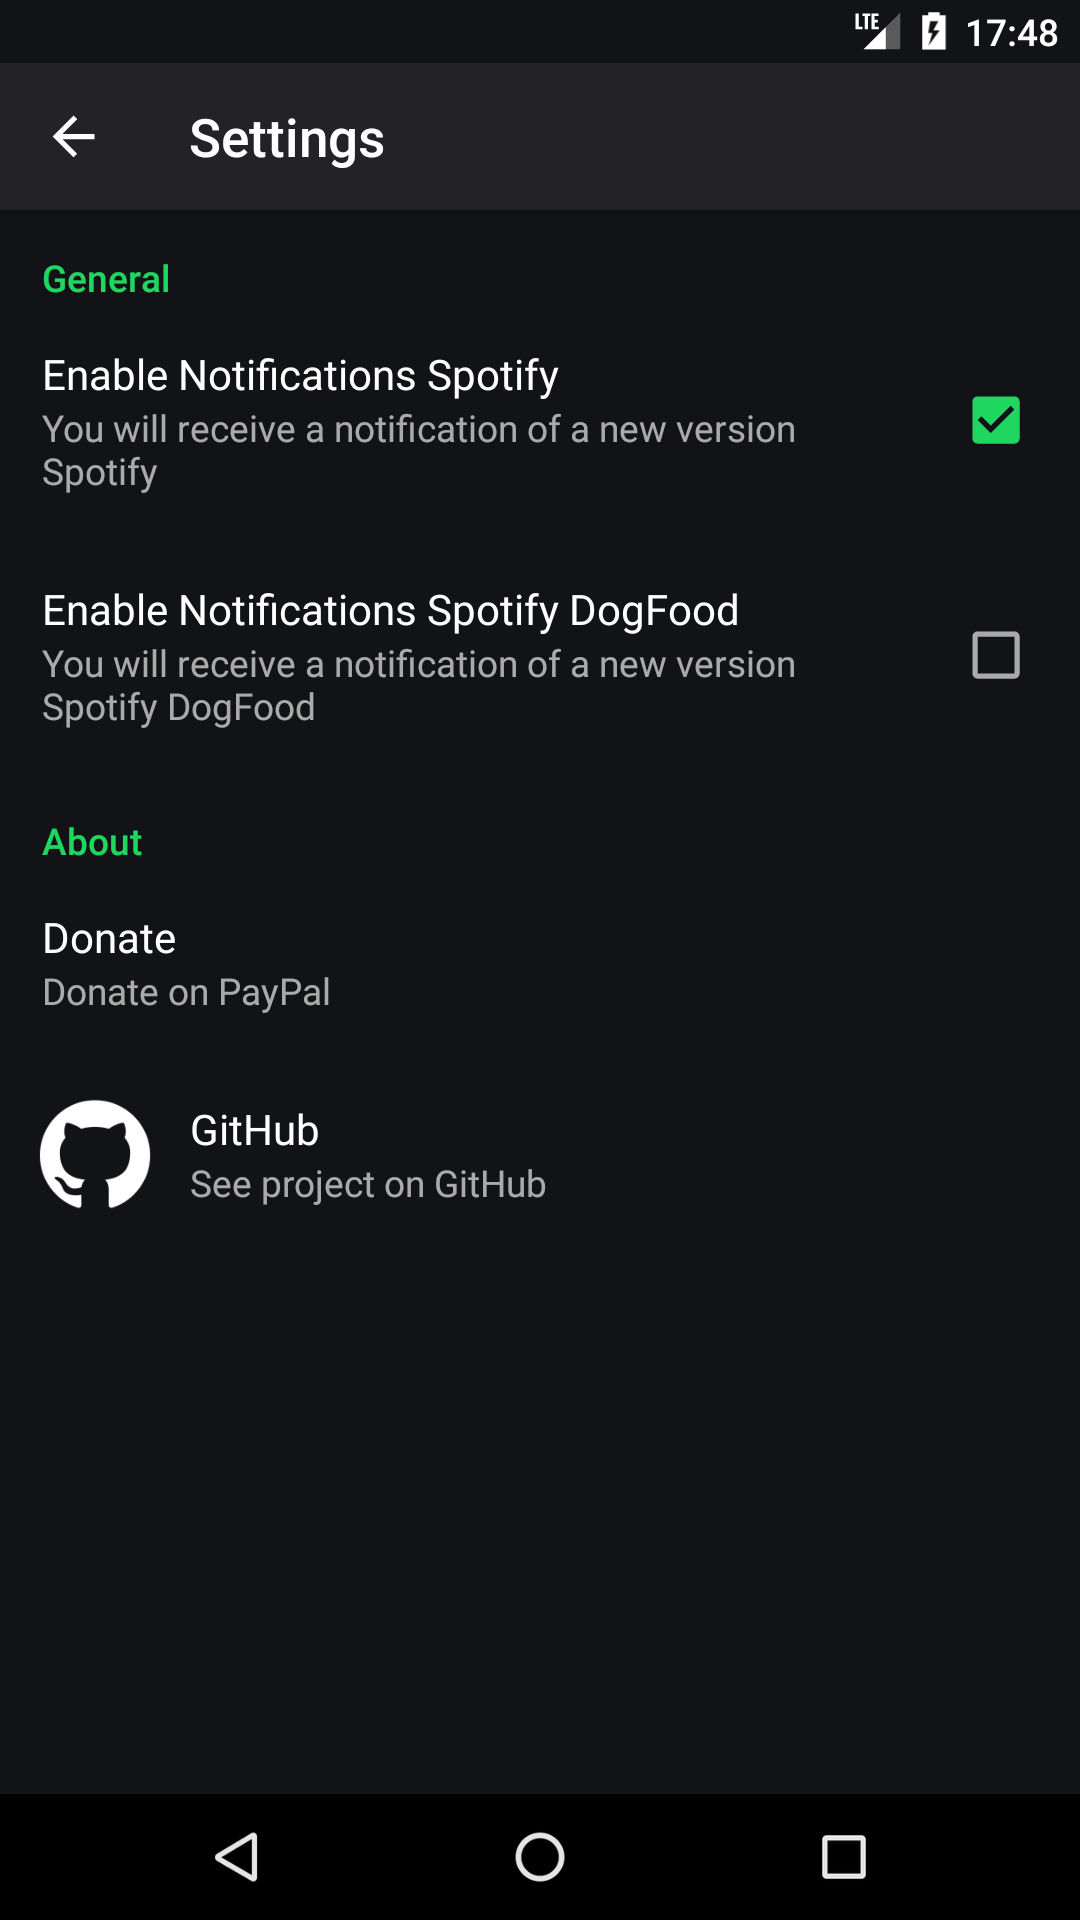
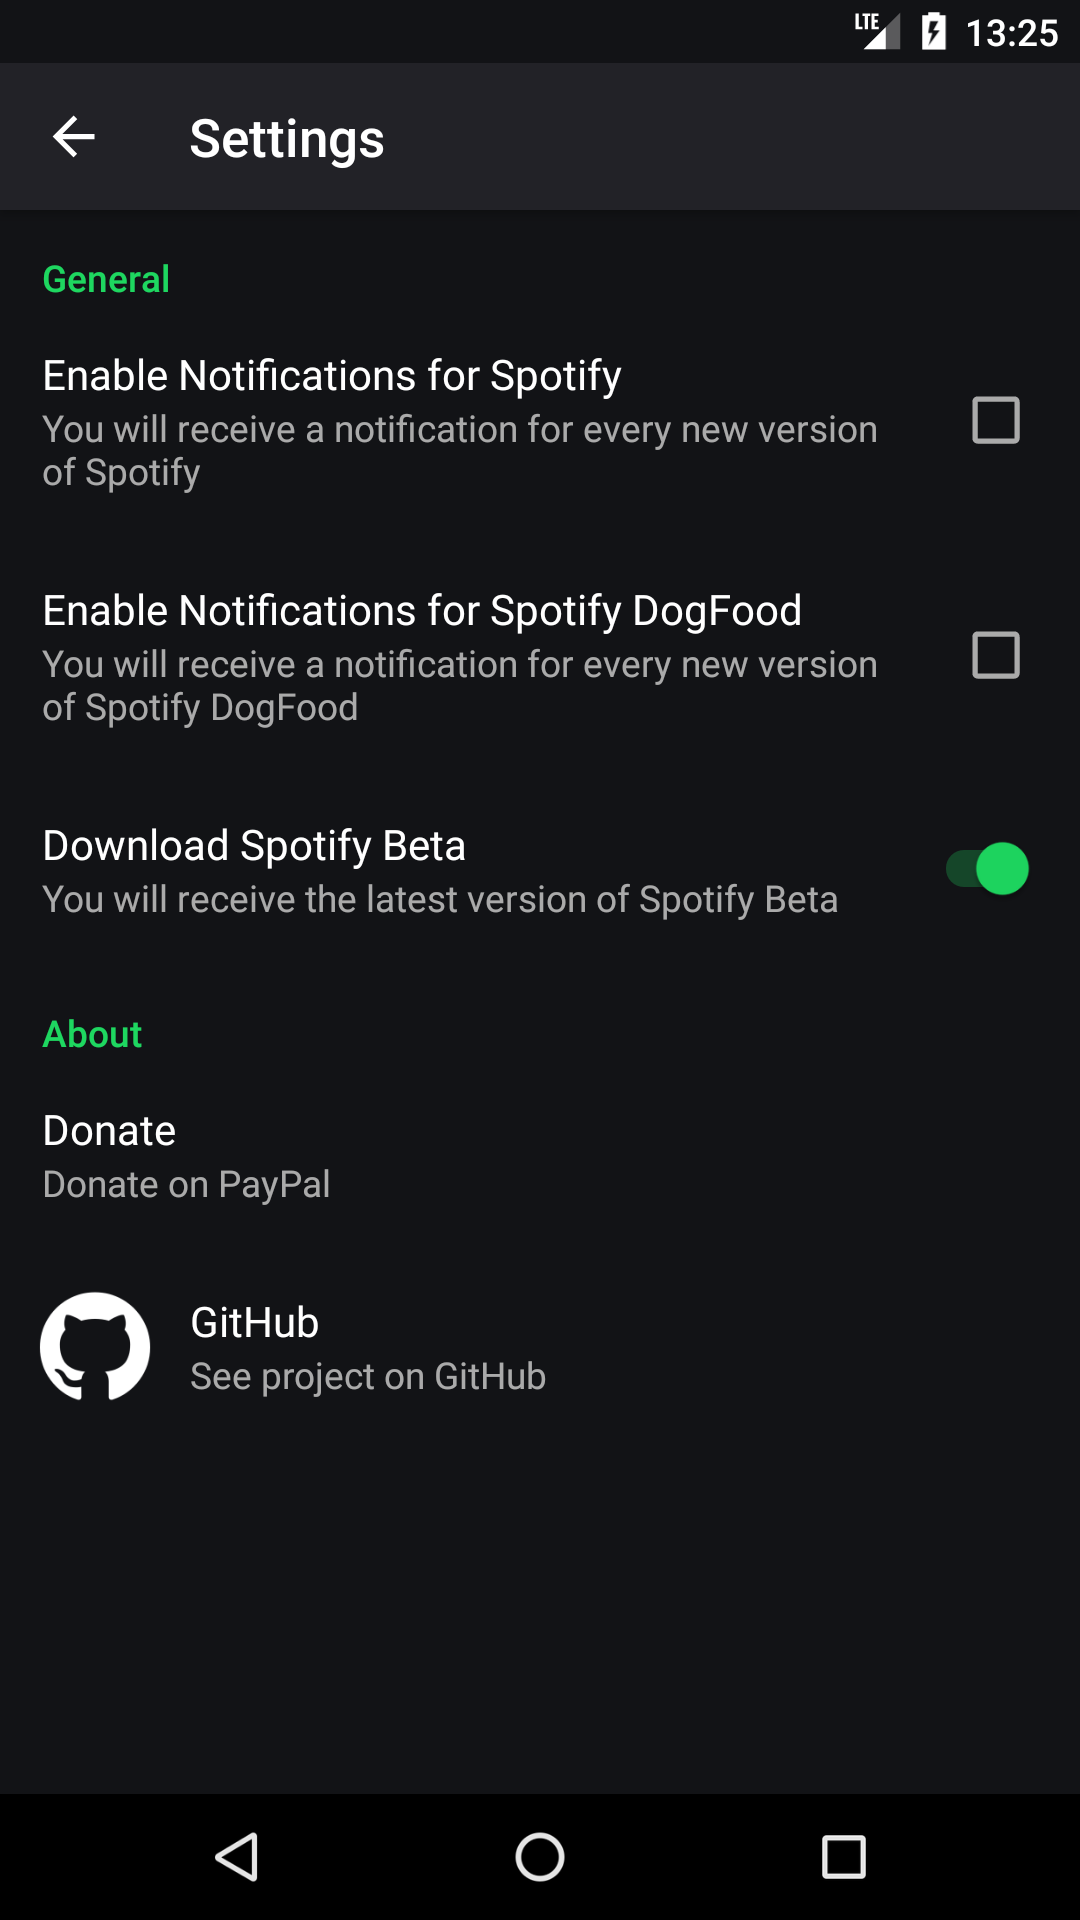
Added the ability to download a beta or a stable version of Spotify

diff --git a/app/src/main/java/ru/ra66it/updaterforspotify/fragment/SpotifyOrigFragment.java b/app/src/main/java/ru/ra66it/updaterforspotify/fragment/SpotifyOrigFragment.java
@@ -176,35 +176,71 @@ public class SpotifyOrigFragment extends VisibleFragment {
             lblLatestVersion.setVisibility(GONE);
             progressBar.setVisibility(View.VISIBLE);
 
-            SpotifyDogfoodApi.Factory.getInstance().getLatestOrigin().enqueue(new Callback<Spotify>() {
-                @Override
-                public void onResponse(Call<Spotify> call, Response<Spotify> response) {
+            if (QueryPreferneces.isSpotifyBeta(getActivity())) {
+                //Spotify Beta
+                SpotifyDogfoodApi.Factory.getInstance().getLatestOriginBeta().enqueue(new Callback<Spotify>() {
+                    @Override
+                    public void onResponse(Call<Spotify> call, Response<Spotify> response) {
 
-                    try {
-                        latestLink = response.body().getBody();
-                        latestVersionNumber = response.body().getTagName();
-                        latestVersionName = response.body().getName();
-                        fillData();
+                        try {
+                            latestLink = response.body().getBody();
+                            latestVersionNumber = response.body().getTagName();
+                            latestVersionName = response.body().getName();
+                            fillData();
 
-                    } catch (NullPointerException e) {
+                        } catch (NullPointerException e) {
+                            errorLayout(true);
+                            Snackbar.make(swipeToRefresh, getString(R.string.error),
+                                    Snackbar.LENGTH_SHORT).show();
+                        }
+
+
+                        progressBar.setVisibility(View.GONE);
+                        lblLatestVersion.setVisibility(View.VISIBLE);
+                    }
+
+                    @Override
+                    public void onFailure(Call<Spotify> call, Throwable t) {
                         errorLayout(true);
                         Snackbar.make(swipeToRefresh, getString(R.string.error),
                                 Snackbar.LENGTH_SHORT).show();
+                        UtilsFAB.hideOrShowFAB(fabDownloadButton, true);
+                    }
+                });
+            } else {
+                //Spotify Stable
+                SpotifyDogfoodApi.Factory.getInstance().getLatestOrigin().enqueue(new Callback<Spotify>() {
+                    @Override
+                    public void onResponse(Call<Spotify> call, Response<Spotify> response) {
+
+                        try {
+                            latestLink = response.body().getBody();
+                            latestVersionNumber = response.body().getTagName();
+                            latestVersionName = response.body().getName();
+                            fillData();
+
+                        } catch (NullPointerException e) {
+                            errorLayout(true);
+                            Snackbar.make(swipeToRefresh, getString(R.string.error),
+                                    Snackbar.LENGTH_SHORT).show();
+                        }
+
+
+                        progressBar.setVisibility(View.GONE);
+                        lblLatestVersion.setVisibility(View.VISIBLE);
                     }
 
+                    @Override
+                    public void onFailure(Call<Spotify> call, Throwable t) {
+                        errorLayout(true);
+                        Snackbar.make(swipeToRefresh, getString(R.string.error),
+                                Snackbar.LENGTH_SHORT).show();
+                        UtilsFAB.hideOrShowFAB(fabDownloadButton, true);
+                    }
+                });
+            }
 
-                    progressBar.setVisibility(View.GONE);
-                    lblLatestVersion.setVisibility(View.VISIBLE);
-                }
 
-                @Override
-                public void onFailure(Call<Spotify> call, Throwable t) {
-                    errorLayout(true);
-                    Snackbar.make(swipeToRefresh, getString(R.string.error),
-                            Snackbar.LENGTH_SHORT).show();
-                    UtilsFAB.hideOrShowFAB(fabDownloadButton, true);
-                }
-            });
 
         } else {
             errorLayout(true);

diff --git a/app/src/main/java/ru/ra66it/updaterforspotify/notification/PollService.java b/app/src/main/java/ru/ra66it/updaterforspotify/notification/PollService.java
@@ -100,7 +100,12 @@ public class PollService extends IntentService {
         }
 
         if (QueryPreferneces.getNotificationOrigin(this)) {
-            notificationsSpotifyOrig();
+            if (QueryPreferneces.isSpotifyBeta(this)) {
+                notificationsSpotifyOrigBeta();
+            } else {
+                notificationsSpotifyOrig();
+            }
+
         }
 
     }
@@ -212,6 +217,58 @@ public class PollService extends IntentService {
         }
     }
 
+    private void notificationsSpotifyOrigBeta() {
+        try {
+            if (SpotifyDogfoodApi.Factory.getInstance().getLatestOriginBeta()
+                    .execute().body().getTagName() != null) {
+                latestVersion = SpotifyDogfoodApi.Factory.getInstance().getLatestOriginBeta()
+                        .execute().body().getTagName();
+                latestVersionName = SpotifyDogfoodApi.Factory.getInstance().getLatestOriginBeta()
+                        .execute().body().getName();
+                latestLink = SpotifyDogfoodApi.Factory.getInstance().getLatestOriginBeta()
+                        .execute().body().getBody();
+
+                //Launch app
+                Resources resources = getResources();
+                Intent i = new Intent(this, MainActivity.class)
+                        .addFlags(Intent.FLAG_ACTIVITY_CLEAR_TOP | Intent.FLAG_ACTIVITY_NEW_TASK);
+                PendingIntent pi = PendingIntent.getActivity(this, 0, i, 0);
+
+                //Download spotify
+                Intent intentDownload = new Intent(this, NotificationDownloadService.class);
+                intentDownload.setAction(NotificationDownloadService.ACTION_DOWNLOAD);
+                intentDownload.putExtra(LATEST_LINK, latestLink);
+                intentDownload.putExtra(LATEST_VERSION_NAME, latestVersionName);
+                intentDownload.putExtra("notification_id", 1);
+                PendingIntent piDownload = PendingIntent.getService(this, 1, intentDownload,
+                        PendingIntent.FLAG_UPDATE_CURRENT);
+
+                //Notification
+                Notification notification = new NotificationCompat.Builder(this)
+                        .setTicker(resources.getString(R.string.app_name))
+                        .setSmallIcon(R.mipmap.ic_notification)
+                        .setContentTitle(getString(R.string.update_available))
+                        .setContentText(getString(R.string.new_version_spotify) + " "
+                                + latestVersion + " " + getString(R.string.available))
+                        .setContentIntent(pi)
+                        .setAutoCancel(true)
+                        .setDefaults(Notification.DEFAULT_ALL)
+                        .setPriority(Notification.PRIORITY_HIGH)
+                        .setColor(getResources().getColor(R.color.colorAccent))
+                        .addAction(R.drawable.ic_file_download_black_24dp,
+                                getString(R.string.install_now), piDownload)
+                        .build();
+
+                showBackgroundNotification(1, notification, latestVersion);
+
+            } else {
+                return;
+            }
+
+        } catch (Exception e) {
+            return;
+        }
+    }
 
 
     private void showBackgroundNotification(int requestCode, Notification notification,

diff --git a/app/src/main/java/ru/ra66it/updaterforspotify/fragment/SettingsFragment.java b/app/src/main/java/ru/ra66it/updaterforspotify/fragment/SettingsFragment.java
@@ -6,6 +6,8 @@ import android.preference.CheckBoxPreference;
 import android.preference.Preference;
 import android.preference.PreferenceFragment;
 import android.preference.PreferenceManager;
+import android.preference.SwitchPreference;
+import android.support.v7.app.AlertDialog;
 
 import ru.ra66it.updaterforspotify.QueryPreferneces;
 import ru.ra66it.updaterforspotify.R;
@@ -18,6 +20,7 @@ public class SettingsFragment extends PreferenceFragment implements SharedPrefer
 
     CheckBoxPreference prefEnableNotificationsDF;
     CheckBoxPreference prefEnableNotificationsOrigin;
+    SwitchPreference prefDownloadBeta;
     SharedPreferences prefs;
 
 
@@ -54,6 +57,29 @@ public class SettingsFragment extends PreferenceFragment implements SharedPrefer
             }
         });
 
+        prefDownloadBeta = (SwitchPreference) findPreference("downloadBeta");
+        prefDownloadBeta.setChecked(QueryPreferneces.isSpotifyBeta(getActivity()));
+        prefDownloadBeta.setOnPreferenceClickListener(new Preference.OnPreferenceClickListener() {
+            @Override
+            public boolean onPreferenceClick(Preference preference) {
+                if (prefDownloadBeta.isChecked()) {
+                    new AlertDialog.Builder(getActivity(), R.style.AlertTheme)
+                            .setMessage(R.string.if_have_not_beta)
+                            .setPositiveButton(android.R.string.ok, null)
+                            .create()
+                            .show();
+                } else {
+                    new AlertDialog.Builder(getActivity(), R.style.AlertTheme)
+                            .setMessage(R.string.if_have_beta)
+                            .setPositiveButton(android.R.string.ok, null)
+                            .create()
+                            .show();
+                }
+                return false;
+            }
+        });
+
+
 
 
     }
@@ -65,6 +91,9 @@ public class SettingsFragment extends PreferenceFragment implements SharedPrefer
 
         QueryPreferneces.setNotificationOrigin(getActivity(),
                 prefEnableNotificationsOrigin.isChecked());
+
+        QueryPreferneces.setSpotifyBeta(getActivity(),
+                prefDownloadBeta.isChecked());
     }
 
 

diff --git a/app/src/main/java/ru/ra66it/updaterforspotify/QueryPreferneces.java b/app/src/main/java/ru/ra66it/updaterforspotify/QueryPreferneces.java
@@ -12,6 +12,7 @@ public class QueryPreferneces {
     private static final String PREF_NOTIFICATION_DF = "notification_df";
     private static final String PREF_NOTIFICATION_ORIGIN = "notification_origin";
     private static final String PREF_IS_ALARM_ON = "isAlarmOn";
+    private static final String PREF_IS_BETA = "isBeta";
     private static final String PREF_IS_FIRST_LAUNCH = "isFirstLaunch";
 
 
@@ -62,6 +63,18 @@ public class QueryPreferneces {
         PreferenceManager.getDefaultSharedPreferences(context)
                 .edit()
                 .putBoolean(PREF_IS_FIRST_LAUNCH, isOn)
+                .apply();
+    }
+
+    public static boolean isSpotifyBeta(Context context) {
+        return PreferenceManager.getDefaultSharedPreferences(context)
+                .getBoolean(PREF_IS_BETA, true);
+    }
+
+    public static void setSpotifyBeta(Context context, boolean isOn) {
+        PreferenceManager.getDefaultSharedPreferences(context)
+                .edit()
+                .putBoolean(PREF_IS_BETA, isOn)
                 .apply();
     }
 

diff --git a/app/src/main/java/ru/ra66it/updaterforspotify/fragment/SpotifyDfFragment.java b/app/src/main/java/ru/ra66it/updaterforspotify/fragment/SpotifyDfFragment.java
@@ -3,6 +3,7 @@ package ru.ra66it.updaterforspotify.fragment;
 import android.os.Bundle;
 import android.support.design.widget.FloatingActionButton;
 import android.support.design.widget.Snackbar;
+import android.support.v4.app.FragmentManager;
 import android.support.v4.widget.SwipeRefreshLayout;
 import android.support.v7.app.AlertDialog;
 import android.support.v7.view.ContextThemeWrapper;
@@ -107,6 +108,14 @@ public class SpotifyDfFragment extends VisibleFragment {
         });
 
         fetchData();
+
+        if (QueryPreferneces.isFirstLaunch(getActivity())) {
+            FragmentManager manager = getFragmentManager();
+            ChooseNotificationDialog dialog = new ChooseNotificationDialog();
+            dialog.setCancelable(false);
+            dialog.show(manager, "choose");
+
+        }
 
         return v;
     }

diff --git a/app/src/main/java/ru/ra66it/updaterforspotify/api/SpotifyDogfoodApi.java b/app/src/main/java/ru/ra66it/updaterforspotify/api/SpotifyDogfoodApi.java
@@ -17,6 +17,7 @@ public interface SpotifyDogfoodApi {
     String BASE_URL = "https://api.github.com/";
     String API_DOGFOOD = "repos/sergiocastell/spotify-dogfood/releases/latest";
     String API_ORIGIN = "repos/spotify-dogfood/spotify-bin/releases/latest";
+    String API_ORIGIN_BETA = "repos/spotify-dogfood/spotify-beta-bin/releases/latest";
 
 
     @GET(API_DOGFOOD)
@@ -24,6 +25,9 @@ public interface SpotifyDogfoodApi {
 
     @GET(API_ORIGIN)
     Call<Spotify> getLatestOrigin();
+
+    @GET(API_ORIGIN_BETA)
+    Call<Spotify> getLatestOriginBeta();
 
 
     class Factory {

diff --git a/app/src/main/java/ru/ra66it/updaterforspotify/activity/MainActivity.java b/app/src/main/java/ru/ra66it/updaterforspotify/activity/MainActivity.java
@@ -47,14 +47,6 @@ public class MainActivity extends AppCompatActivity {
         viewPager.setOffscreenPageLimit(2);
         tabLayout.setupWithViewPager(viewPager);
 
-        if (QueryPreferneces.isFirstLaunch(this)) {
-            FragmentManager manager = getSupportFragmentManager();
-            ChooseNotificationDialog dialog = new ChooseNotificationDialog();
-            dialog.setCancelable(false);
-            dialog.show(manager, "choose");
-
-            QueryPreferneces.setFirstLaunch(this, false);
-        }
 
     }
 

diff --git a/app/src/main/java/ru/ra66it/updaterforspotify/fragment/ChooseNotificationDialog.java b/app/src/main/java/ru/ra66it/updaterforspotify/fragment/ChooseNotificationDialog.java
@@ -86,6 +86,8 @@ public class ChooseNotificationDialog extends DialogFragment {
                     return;
                 }
 
+                QueryPreferneces.setFirstLaunch(getActivity(), false);
+
             }
         });
 
